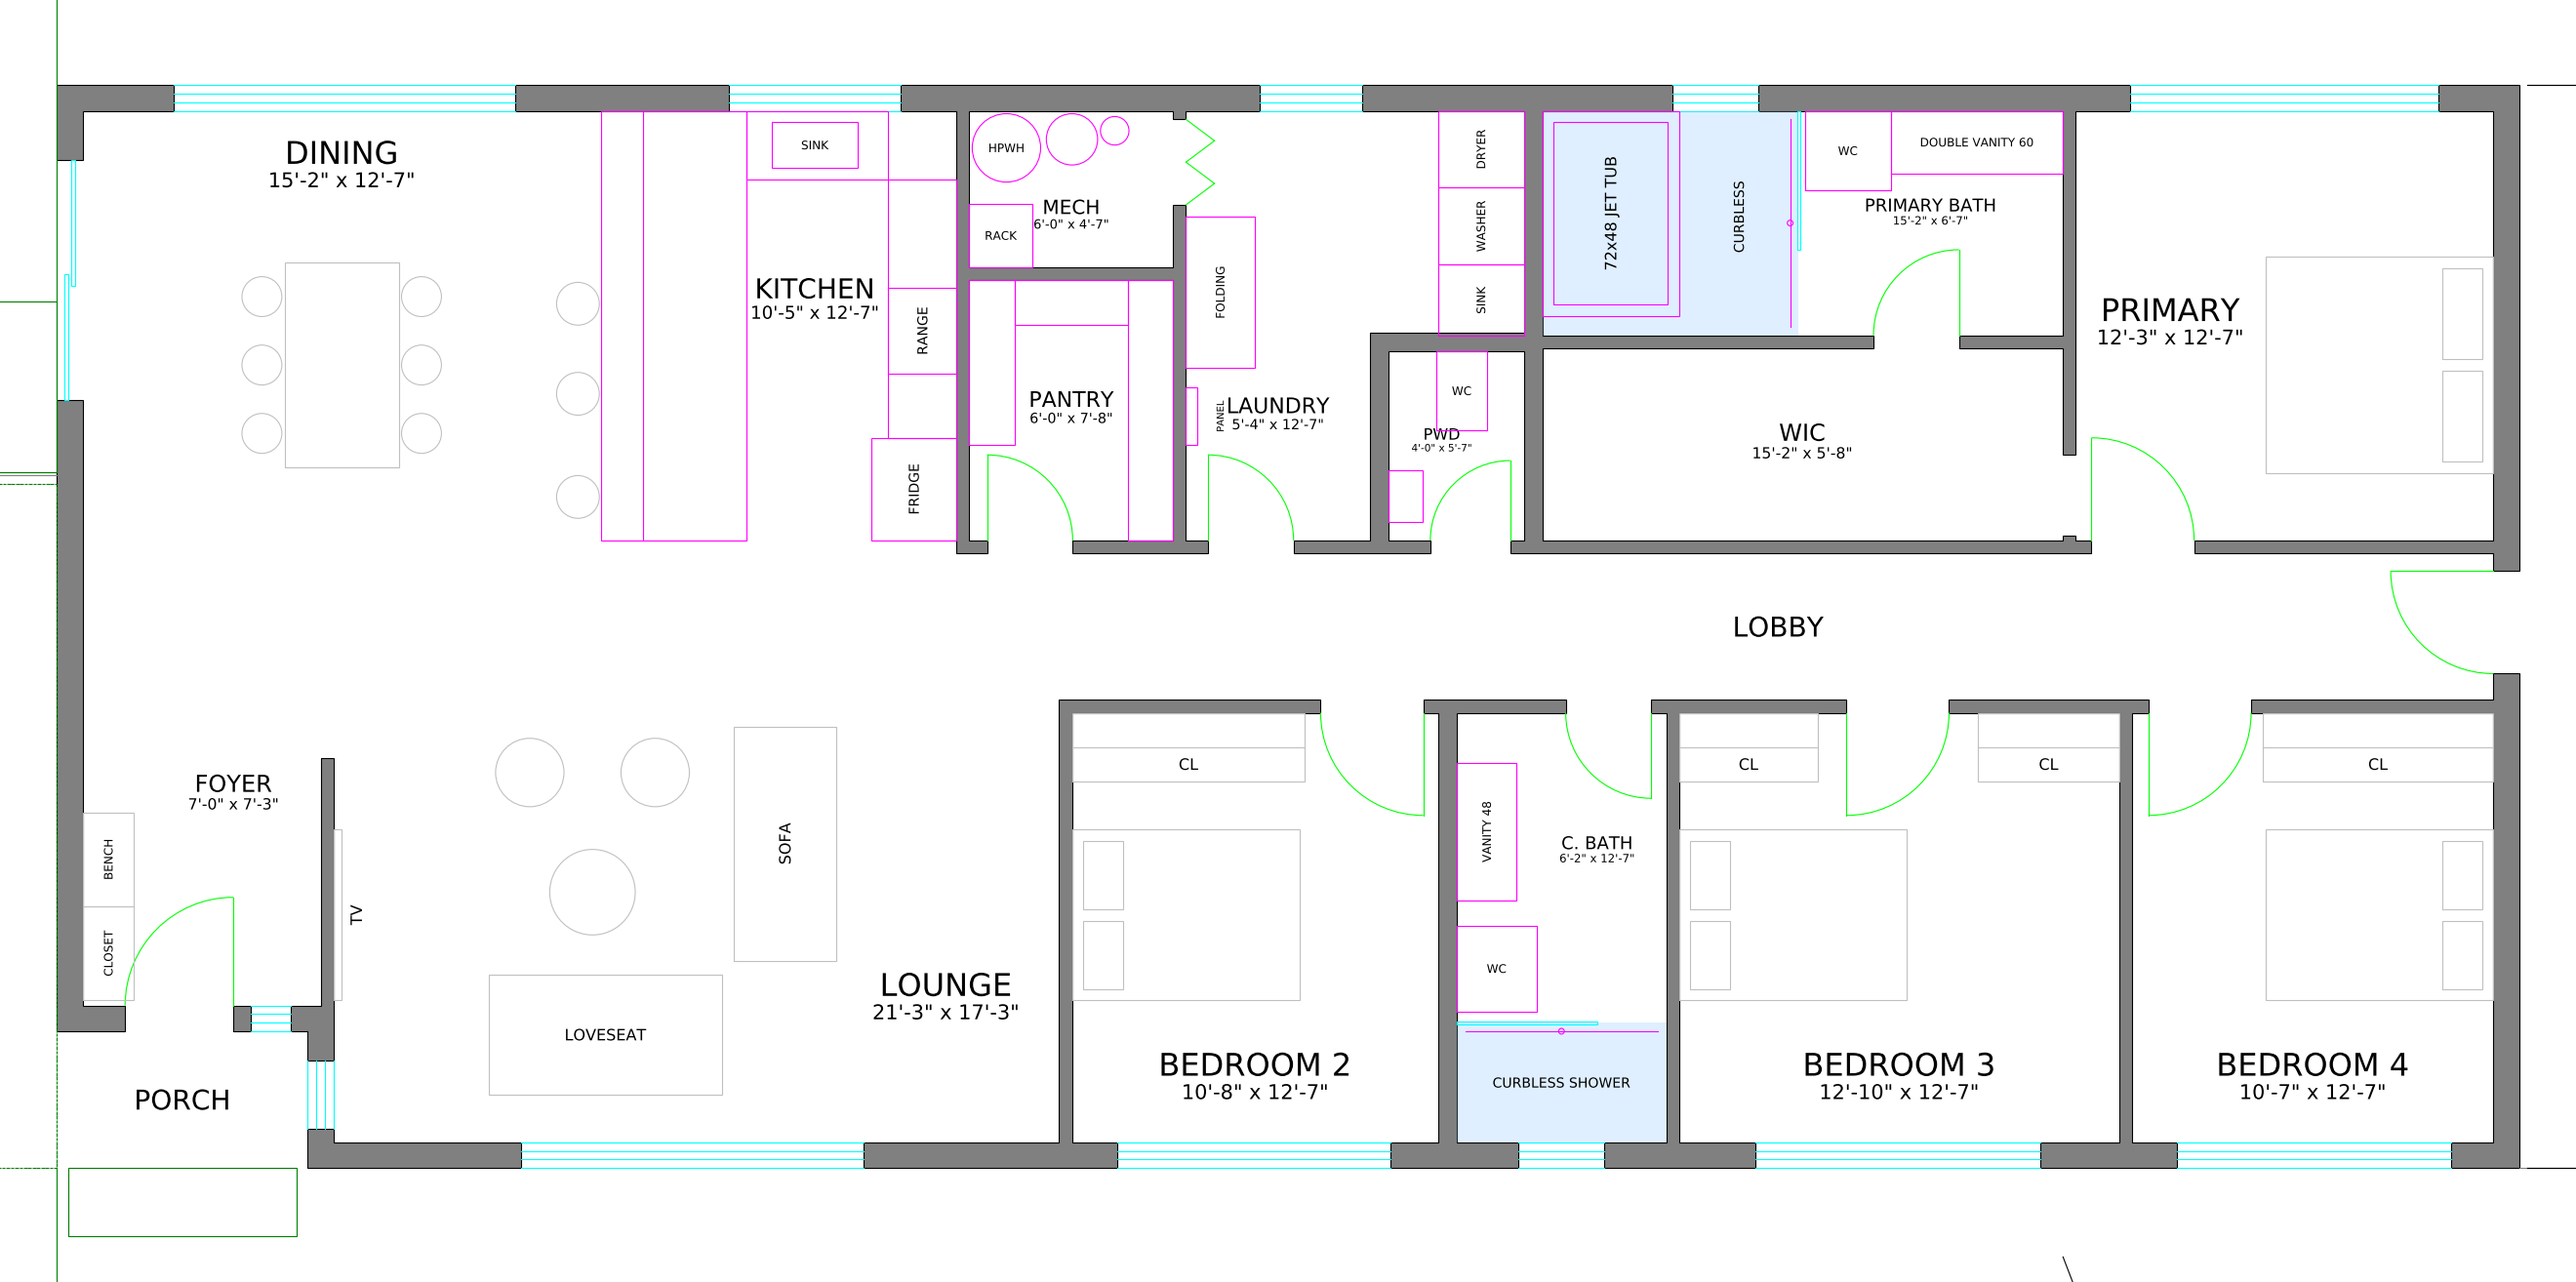
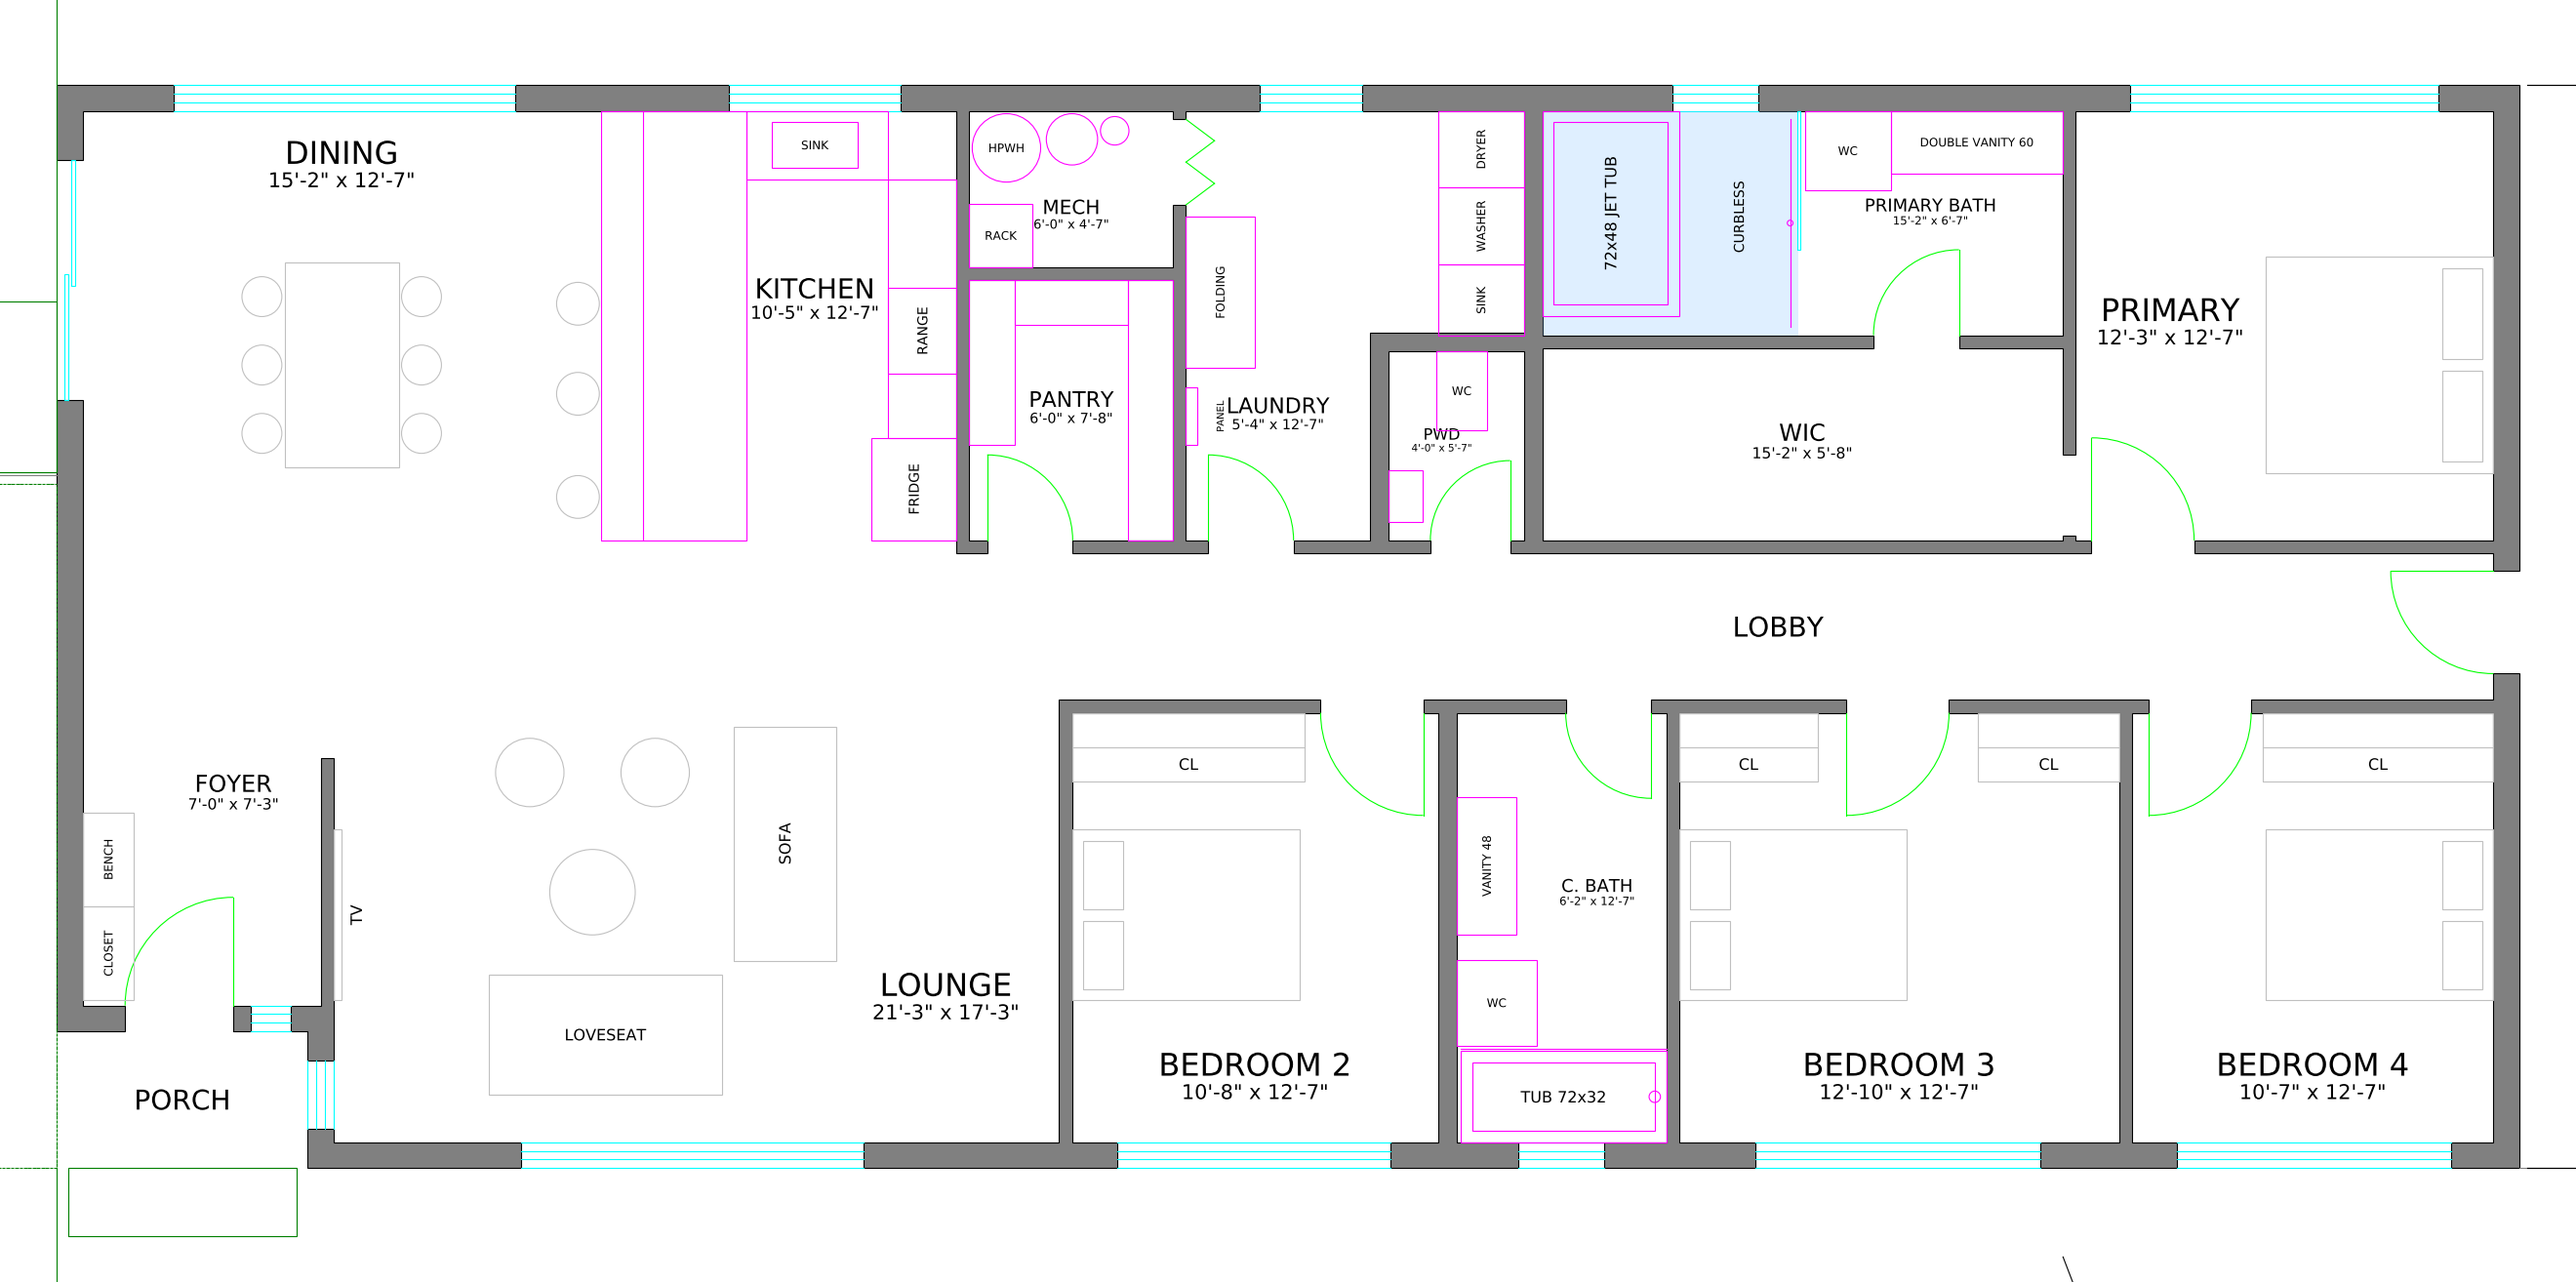
Schematic: common bath gets a standard 72in tub with shower head

Changed region(s): [[0.5591, 0.7801, 0.6523, 0.9049]]

diff --git a/scripts/schematic.py b/scripts/schematic.py
@@ -208,11 +208,11 @@ def wet_zone(sh, x0, y0, x1, y1):
     h.transparency = 0.75
 
 
-def tub(sh, x0, y0, x1, y1):
+def tub(sh, x0, y0, x1, y1, label="72x48 JET TUB"):
     sh.rect(x0, y0, x1, y1, "A-EQPM")
     sh.rect(x0 + 4, y0 + 4, x1 - 4, y1 - 4, "A-EQPM")
     rot = 90 if (y1 - y0) > (x1 - x0) else 0
-    sh.text("72x48 JET TUB", (x0 + x1) / 2, (y0 + y1) / 2, 4.0, rot=rot)
+    sh.text(label, (x0 + x1) / 2, (y0 + y1) / 2, 4.0, rot=rot)
 
 
 def glass(sh, a, b):
@@ -239,17 +239,16 @@ def vanity(sh, x0, y0, x1, y1, label, rot=0):
 
 
 def common_bath(sh):
-    """Full-width curbless walk-in shower at the window end; WC and vanity on the east wall."""
-    c0, c1 = face("bed2|c.bath", +1), face("c.bath|bed3", -1)          # 73.5" clear
+    """72" x 32" alcove tub with a shower head across the window end; WC and vanity on the east wall."""
+    c0, c1 = face("bed2|c.bath", +1), face("c.bath|bed3", -1)          # 73.5" clear: fur one end ~1.5"
     hall = face("bedroom hall wall", -1)
-    gy = N_IN + 42.0                                                   # 42"-deep shower
-    wet_zone(sh, c0, N_IN, c1, gy)
-    sh.text("CURBLESS SHOWER", (c0 + c1) / 2, N_IN + 21, 3.5)
-    glass(sh, (c0, gy), (c1 - 24, gy))                                 # 24" walk-in gap, west side
-    drain(sh, (c0 + 3, gy - 3), (c1 - 3, gy - 3))
-    wc(sh, c0, gy + 4, c0 + 28, gy + 34)                               # 19" to glass
-    vanity(sh, c0, gy + 43, c0 + 21, gy + 91, "VANITY 48", rot=90)     # 24" from the WC centreline
-    room_label(sh, "C. BATH", c0, N_IN, c1, hall, cx=(c0 + 21 + c1) / 2 + 2, cy=gy + 60, h=4.5)
+    ty = N_IN + 32.0
+    tub(sh, c1 - 72.0, N_IN, c1, ty, "TUB 72x32")
+    sh.circle((c1 - 4, N_IN + 16), 2.0, "A-EQPM")                     # shower head + valve, west end
+    sh.line((c1 - 72.0, ty + 1), (c1, ty + 1), "A-EQPM")              # curtain rod
+    wc(sh, c0, ty + 2, c0 + 28, ty + 32)                               # 17" to the tub
+    vanity(sh, c0, ty + 41, c0 + 21, ty + 89, "VANITY 48", rot=90)     # 24" from the WC centreline
+    room_label(sh, "C. BATH", c0, N_IN, c1, hall, cx=(c0 + 21 + c1) / 2 + 2, cy=ty + 55, h=4.5)
 
 
 def primary_bath(sh):

diff --git a/docs/02-floor-plan.md b/docs/02-floor-plan.md
@@ -48,7 +48,7 @@ The designer's side hall is gone (step 19, adopted from the "three strips v2" ex
 - **Gym ring mounts:** two ceiling points about 20" apart near the room's centre, swinging along the 12'-6" direction. The truss designer must carry a concentrated load of about 500 lb at each point; doubled 2x or LVL blocking across 2–3 trusses with framing connectors; through-bolted forged eye bolts with plate washers. Keep lights, fans, HVAC/ERV registers, and the smoke alarm out of the 4–6' swing zone. Photograph the blocking before drywall.
 - **Bedroom 3 (12'-8" x 12'-6"): guest room.** Queen bed, blackout shades. The designer drew two 4' closets flanking a centred door; see [open questions](09-open-questions.md).
 - **Bedroom 4 (10'-6" x 12'-6"): office.** Solid-core door and insulated walls for calls; wall blocking for monitor arms and shelves; dimmable ceiling light.
-- **Common bath (6'-1½" x 12'-7").** Curbless walk-in shower across the full width at the window end: 42" deep behind a fixed glass panel, 24" walk-in gap, linear drain. Then the WC and a 48" vanity on the east wall. The gym next door uses it daily. (A tub + shower wet room was tried here and dropped as too cramped.)
+- **Common bath (6'-1½" x 12'-7").** A standard 72" alcove tub (72" x 32") with a shower head and curtain across the window end. The 73½" width means one end wall is furred out to the tub's spec (typically 72"–72½" stud to stud), so pick the model before framing. Then the WC and a 48" vanity on the east wall. (A tub + shower wet room was tried here and dropped as too cramped.)
 - **Primary bath wet room (15'-2" x 6'-7").** A 72" x 48" two-person jetted tub on the plumbing wall plus a 42" curbless shower beside it, behind one fixed glass panel with a linear drain, walk in at the closet end. Then the WC and a 60" double vanity. To fit it, the bath/bedroom wall moved 30" into the primary bedroom (now 12'-3" x 12'-7"; the walk-in closet is 15'-2" long). See [plumbing](04-plumbing.md).
 - **Primary suite:** optional reading nook with a built-in bench (window seat) in the primary bedroom.
 

diff --git a/docs/09-open-questions.md b/docs/09-open-questions.md
@@ -12,7 +12,7 @@
 **Design decisions (owner)**
 
 - [ ] Bedroom 3: keep the designer's two 4' closets flanking a centred door, or one ~9' closet with the door in the corner by bedroom 4?
-- [x] Two-person tub: decided. A 72" x 48" jetted tub goes in the primary bath wet room; the common bath gets a walk-in shower. Pick the tub model before framing; 80-gal water heater.
+- [x] Two-person tub: decided. A 72" x 48" jetted tub goes in the primary bath wet room; the common bath gets a standard 72" tub with a shower head. Pick the tub model before framing; 80-gal water heater.
 - [ ] Kitchen tall storage: hutch between range and fridge, tall pantry column, and/or a dining-wall built-in.
 - [ ] Pick the fridge model (sets the exact opening and door clearance).
 
